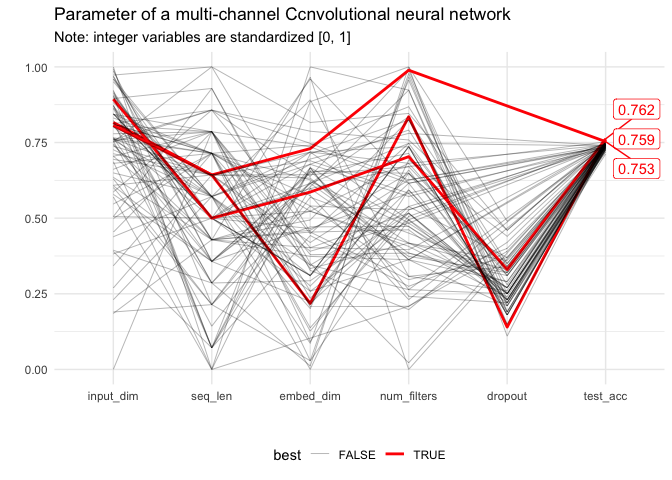
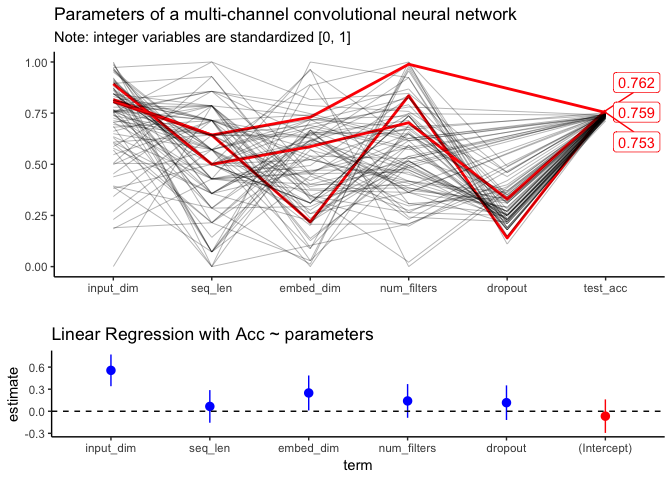
add param regression

diff --git a/README.md b/README.md
@@ -3,14 +3,14 @@ textlearnR
 
 A simple collection of well working NLP models (Keras) in R, tuned and benchmarked on a variety of datasets. This is a work in progress and the first version only supports classification tasks (at the moment).
 
-![](Readme_files/figure-markdown_github/unnamed-chunk-1-1.png)
+<img src="Readme_files/figure-markdown_github/unnamed-chunk-1-1.png" style="display: block; margin: auto;" />
 
 What can this package do for you? (in the future)
 -------------------------------------------------
 
 Training neural networks can be bothering and time consuming due to the sheer amount of hyper-parameters. Hyperparameters are values that are defined by a prior and provided as additional model input. Tuning those requires either deeper knowledge about the model behavior itself or computational resources for random searches or optimization on the parameter space. `textlearnR` provides a light weight framework to train and compare ML models from Keras, H2O, starspace and text2vec (coming soon). Furthermore, it allows to define parameters for text processing (e.g. maximal number of words and text length), which are also considered to be priors.
 
-Beside language models, `textlearnR` also integrates third party packages for automatically tuning hyperparameters. The following strategies are avaiable:
+Beside language models, textlearnR also integrates third party packages for automatically tuning hyperparameters. The following strategies are avaiable:
 
 #### Searching
 
@@ -26,7 +26,7 @@ Beside language models, `textlearnR` also integrates third party packages for au
     -   Nelder–Mead simplex (gradient-free)
     -   Particle swarm (gradient-free)
 
-For constructing new parameter objects the tidy way, the package `dials` is used. Each model optimized is saved to a SQLite database in `data/model_dump.db`. Of course, committed to [tidy principles](https://cran.r-project.org/package=tidyverse/vignettes/manifesto.html). Contributions are highly welcomed!
+For constructing new parameter objects the tidy way, the package `dials` is used. Each model optimized is saved to a SQLite database in `data/model_dump.db`. Of course, committed to [tidy principals](https://cran.r-project.org/package=tidyverse/vignettes/manifesto.html). Contributions are highly welcomed!
 
 Supervised Models
 -----------------
@@ -93,9 +93,9 @@ textlearnR::keras_simple_mlp(
 
 -   rather flowchart or ggalluvial
 
-![](Readme_files/figure-markdown_github/unnamed-chunk-4-1.png)
+<img src="Readme_files/figure-markdown_github/unnamed-chunk-4-1.png" style="display: block; margin: auto;" />
 
-![](Readme_files/figure-markdown_github/unnamed-chunk-5-1.png)
+<img src="Readme_files/figure-markdown_github/unnamed-chunk-5-1.png" style="display: block; margin: auto;" />
 
 <!---
 
@@ -122,6 +122,7 @@ textlearnR::keras_simple_mlp(
 
 ## Other NLP Packages
 
+* [handlr](https://ropensci.org/technotes/2019/02/27/handlr-release/)
 * [`decryptr` An extensible API for breaking captchas](https://github.com/decryptr/decryptr)
 * [`textfeatures`](https://github.com/mkearney/textfeatures)
 * [`dbx` A fast, easy-to-use database library for R](https://github.com/ankane/dbx)
